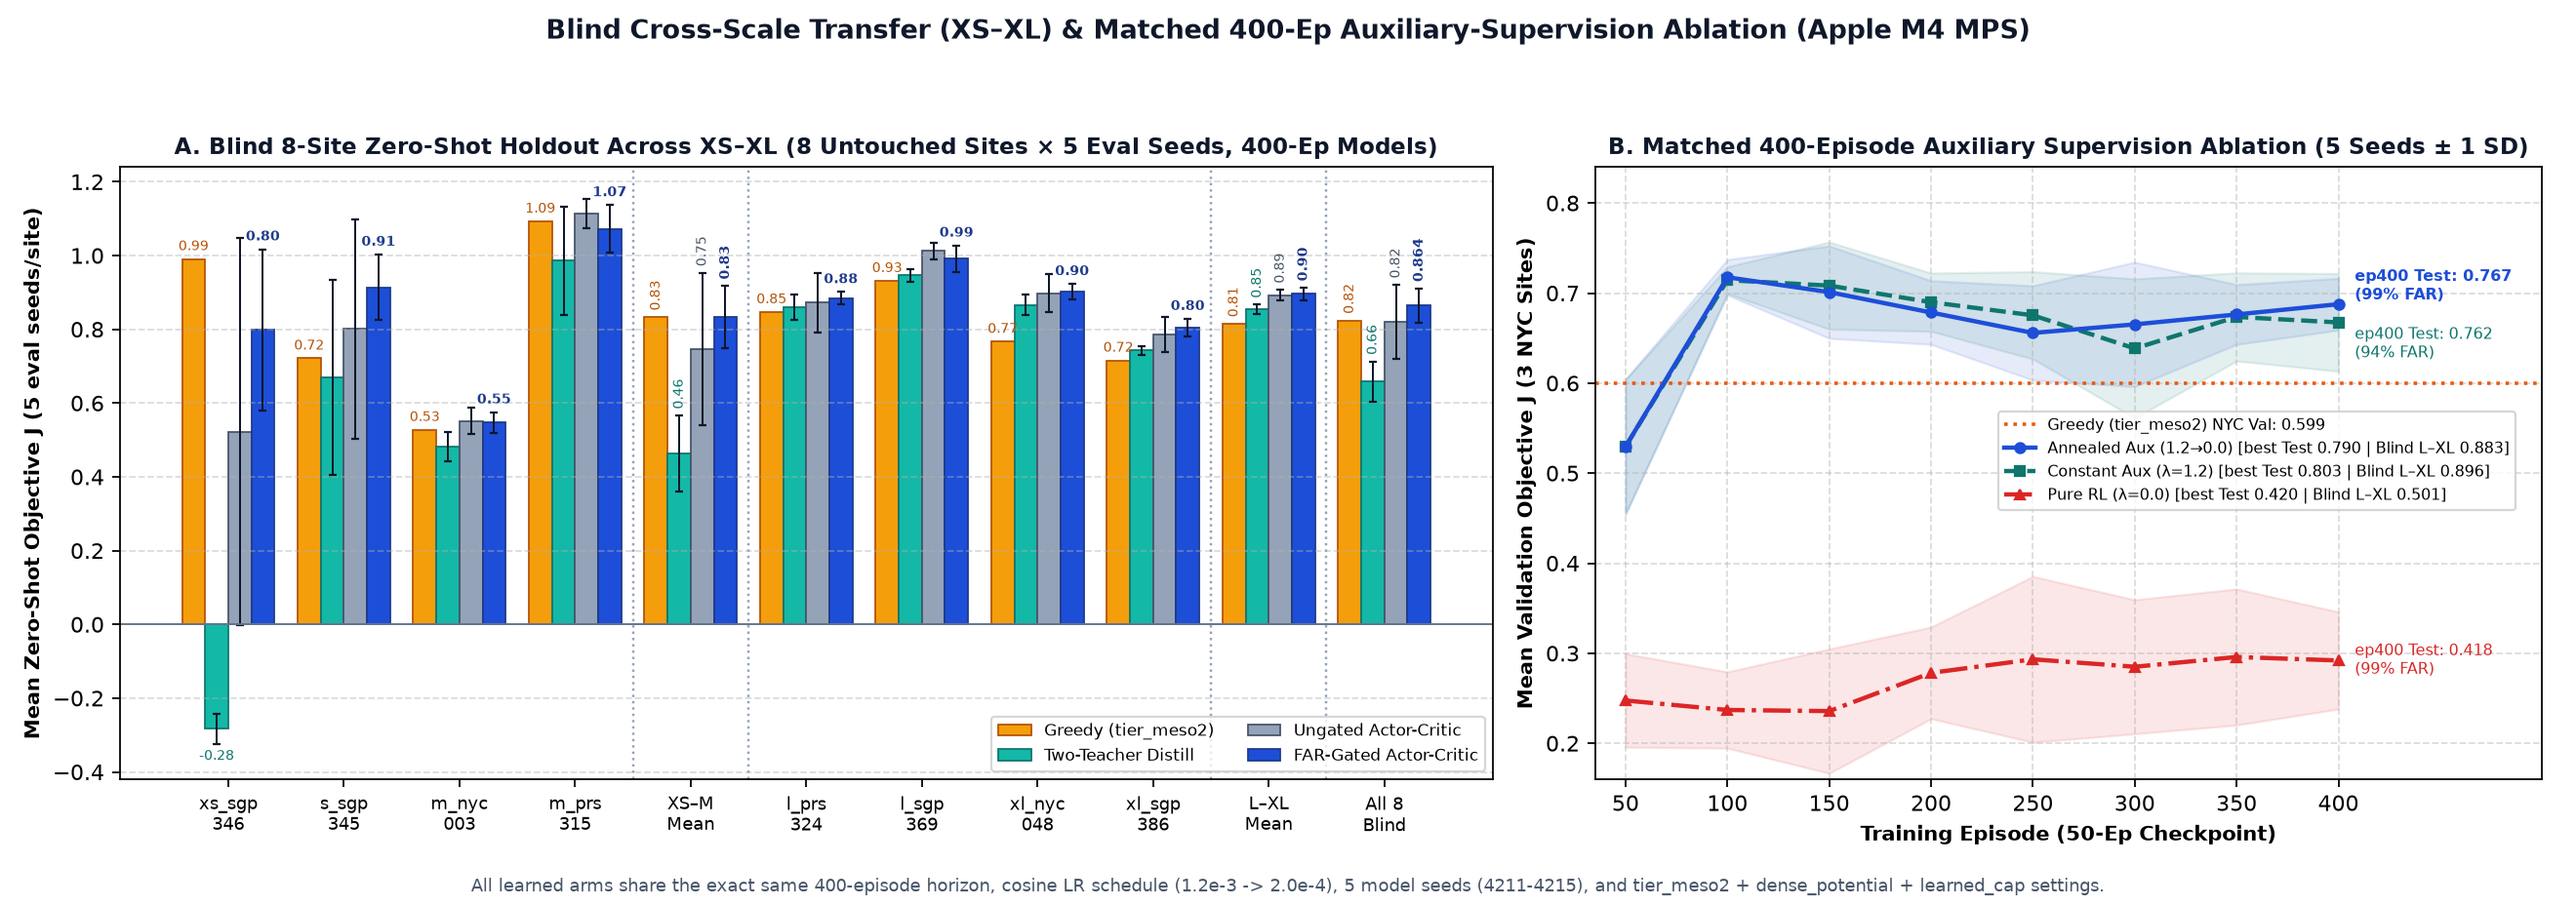
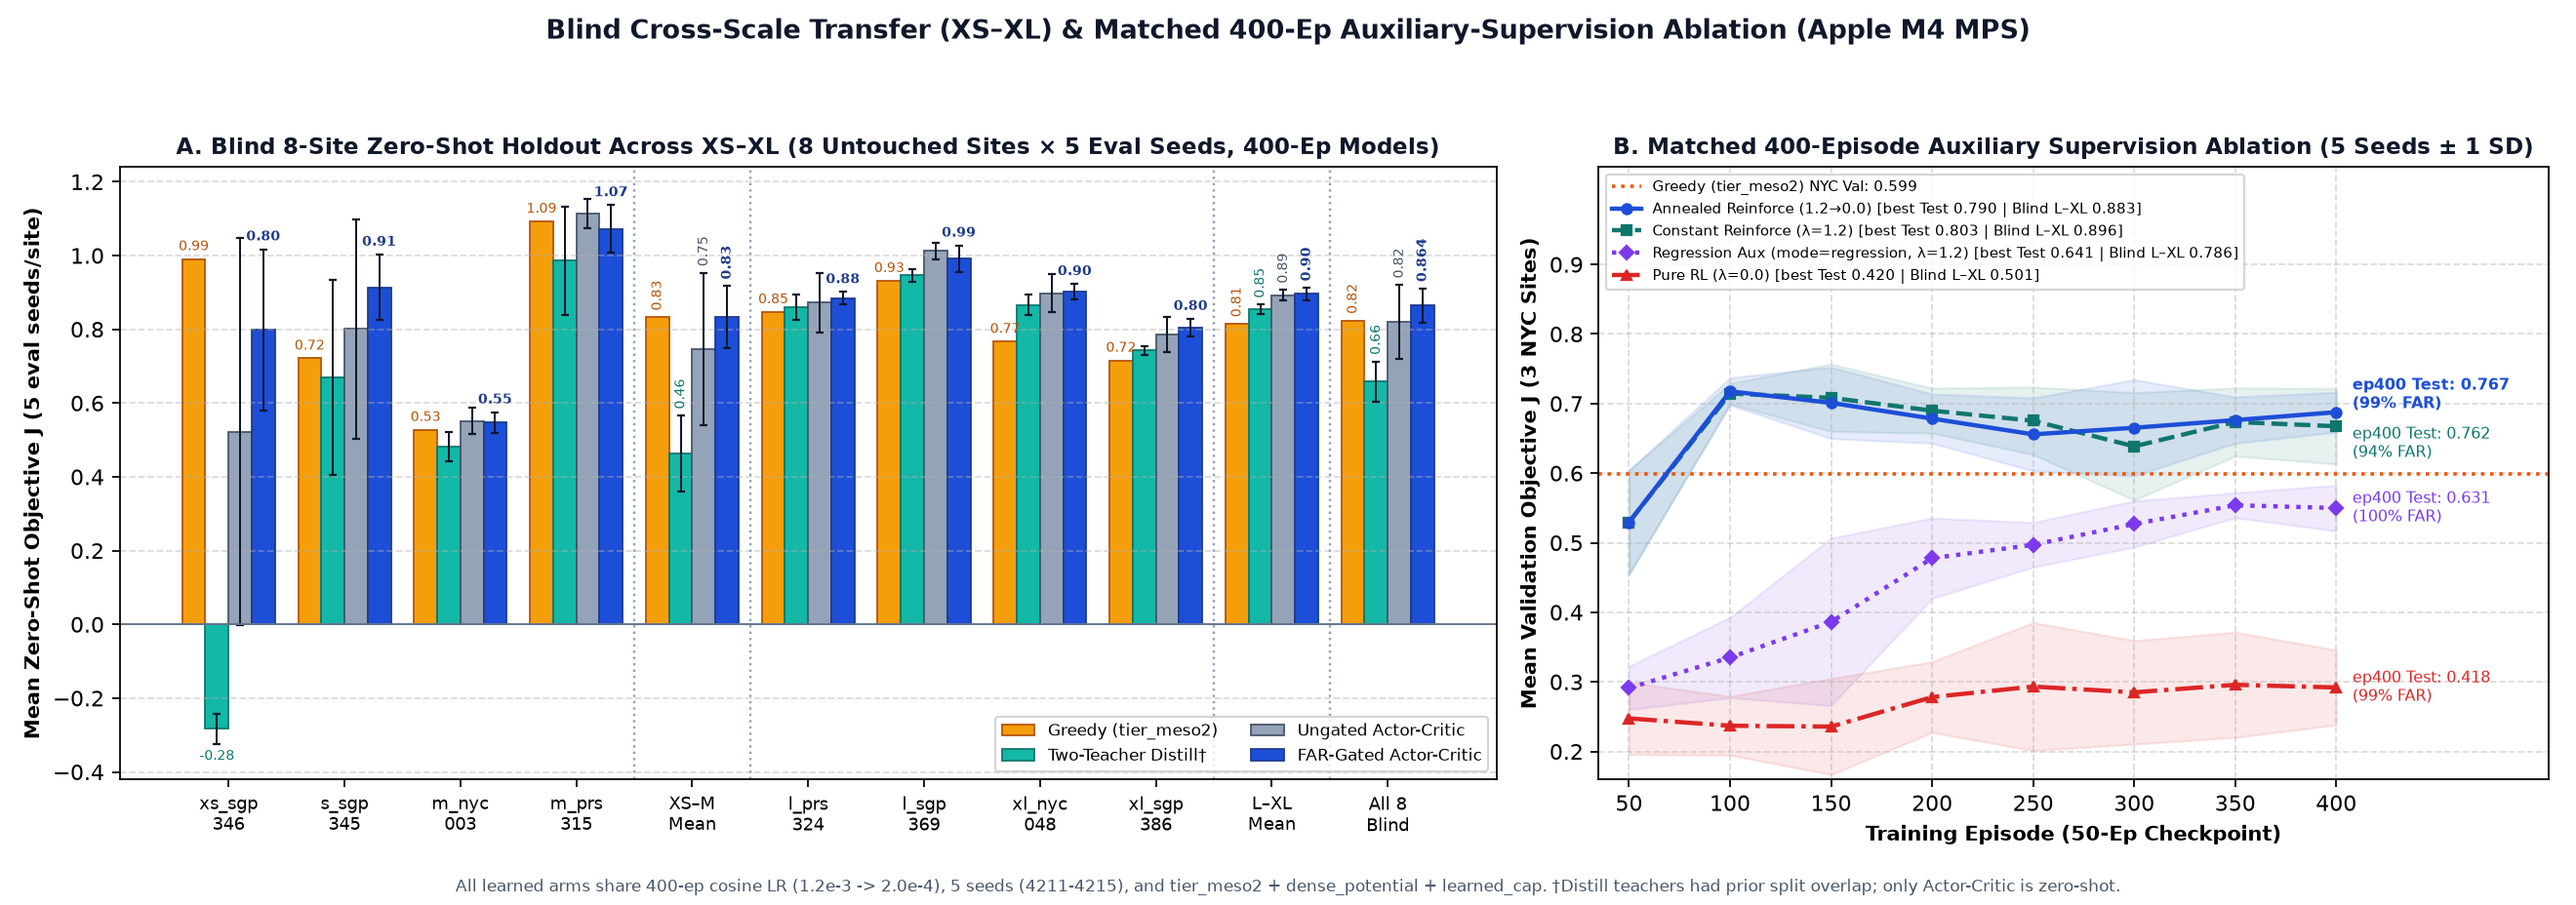
Update blind/aux ablation figure to include regression_aux and teacher caveat

diff --git a/tools/generate_readme_media.py b/tools/generate_readme_media.py
@@ -2298,6 +2298,9 @@ def generate_blind_and_aux_ablation_figure():
     aux = json.loads(
         (RESULTS_DIR / "aux-ablation-400ep-mps-2026-11-23.json").read_text()
     )
+    reg = json.loads(
+        (RESULTS_DIR / "regression-aux-400ep-mps-2026-11-23.json").read_text()
+    )
     greedy = json.loads(
         (RESULTS_DIR / "greedy-control-all-tiers-mps-2026-11-22.json").read_text()
     )
@@ -2326,7 +2329,7 @@ def generate_blind_and_aux_ablation_figure():
     ]
     bars_spec = [
         ("Greedy (tier_meso2)", "greedy_tier_meso2", "#f59e0b", "#b45309"),
-        ("Two-Teacher Distill", "on_policy_distill", "#14b8a6", "#0f766e"),
+        ("Two-Teacher Distill†", "on_policy_distill", "#14b8a6", "#0f766e"),
         ("Ungated Actor-Critic", "ungated_actor_critic", "#94a3b8", "#475569"),
         ("FAR-Gated Actor-Critic", "far_gated_actor_critic", "#1d4ed8", "#1e3a8a"),
     ]
@@ -2434,19 +2437,27 @@ def generate_blind_and_aux_ablation_figure():
     arms_spec = [
         (
             "annealed_aux",
-            "Annealed Aux (1.2→0.0) [best Test 0.790 | Blind L–XL 0.883]",
+            "Annealed Reinforce (1.2→0.0) [best Test 0.790 | Blind L–XL 0.883]",
             "#1d4ed8",
             "-",
             "o",
-            0.020,
+            0.025,
         ),
         (
             "constant_aux",
-            "Constant Aux (λ=1.2) [best Test 0.803 | Blind L–XL 0.896]",
+            "Constant Reinforce (λ=1.2) [best Test 0.803 | Blind L–XL 0.896]",
             "#0f766e",
             "--",
             "s",
-            -0.024,
+            -0.025,
+        ),
+        (
+            "regression_aux",
+            "Regression Aux (mode=regression, λ=1.2) [best Test 0.641 | Blind L–XL 0.786]",
+            "#7c3aed",
+            ":",
+            "D",
+            0.0,
         ),
         (
             "pure_rl",
@@ -2458,20 +2469,28 @@ def generate_blind_and_aux_ablation_figure():
         ),
     ]
     for arm_key, label, color, ls, marker, y_off in arms_spec:
-        arm_doc = aux["arms"][arm_key]
-        curve = arm_doc["validationCurve400"]
+        if arm_key == "regression_aux":
+            ts = reg["trainingSummary"]
+            curve = ts["validationCurve400"]
+            ep400_test = float(ts["testStochEp400"]["mean"])
+            ep400_far = round(100.0 * float(ts["testStochEp400Far"]["mean"]))
+        else:
+            arm_doc = aux["arms"][arm_key]
+            curve = arm_doc["validationCurve400"]
+            ep400_test = float(
+                arm_doc["aggregate"]["finalTest"]["metrics"]["meanQuality"]["mean"]
+            )
+            ep400_far = round(
+                100.0
+                * float(
+                    arm_doc["aggregate"]["finalTest"]["metrics"]["farSuccessRate"][
+                        "mean"
+                    ]
+                )
+            )
         xs = np.array([row["episode"] for row in curve], dtype=np.float32)
         ym = np.array([row["meanQuality"] for row in curve], dtype=np.float32)
         ys = np.array([row["stdQuality"] for row in curve], dtype=np.float32)
-        ep400_test = float(
-            arm_doc["aggregate"]["finalTest"]["metrics"]["meanQuality"]["mean"]
-        )
-        ep400_far = round(
-            100.0
-            * float(
-                arm_doc["aggregate"]["finalTest"]["metrics"]["farSuccessRate"]["mean"]
-            )
-        )
         ax2.plot(
             xs,
             ym,
@@ -2483,20 +2502,21 @@ def generate_blind_and_aux_ablation_figure():
             linewidth=2.0,
             zorder=4 if arm_key == "annealed_aux" else 3,
         )
-        ax2.fill_between(xs, ym - ys, ym + ys, color=color, alpha=0.11)
+        ax2.fill_between(xs, ym - ys, ym + ys, color=color, alpha=0.10)
         ax2.text(
             408,
             float(ym[-1]) + y_off,
             f"ep400 Test: {ep400_test:.3f}\n({ep400_far}% FAR)",
             ha="left",
             va="center",
-            fontsize=7.1,
+            fontsize=7.0,
             fontweight="bold" if arm_key == "annealed_aux" else "normal",
             color=color,
         )
 
-    ax2.set_xlim(35, 500)
-    ax2.set_ylim(0.16, 0.84)
+    ax2.set_xlim(35, 505)
+    ax2.set_ylim(0.16, 1.04)
+    ax2.set_yticks(np.arange(0.2, 0.91, 0.1))
     ax2.set_xticks(np.arange(50, 401, 50))
     ax2.set_xlabel(
         "Training Episode (50-Ep Checkpoint)", fontsize=9.5, fontweight="bold"
@@ -2511,9 +2531,7 @@ def generate_blind_and_aux_ablation_figure():
         color="#0f172a",
     )
     ax2.grid(True, linestyle="--", alpha=0.45)
-    ax2.legend(
-        loc="center right", bbox_to_anchor=(0.98, 0.52), fontsize=7.1, frameon=True
-    )
+    ax2.legend(loc="upper left", fontsize=6.7, frameon=True)
 
     fig.suptitle(
         "Blind Cross-Scale Transfer (XS–XL) & Matched 400-Ep Auxiliary-Supervision Ablation (Apple M4 MPS)",
@@ -2525,9 +2543,9 @@ def generate_blind_and_aux_ablation_figure():
     fig.text(
         0.5,
         0.015,
-        "All learned arms share the exact same 400-episode horizon, cosine LR schedule (1.2e-3 -> 2.0e-4), 5 model seeds (4211-4215), and tier_meso2 + dense_potential + learned_cap settings.",
+        "All learned arms share 400-ep cosine LR (1.2e-3 -> 2.0e-4), 5 seeds (4211-4215), and tier_meso2 + dense_potential + learned_cap. †Distill teachers had prior split overlap; only Actor-Critic is zero-shot.",
         ha="center",
-        fontsize=8.0,
+        fontsize=7.8,
         color="#475569",
     )
     fig.tight_layout(rect=(0.0, 0.04, 1.0, 0.93))
